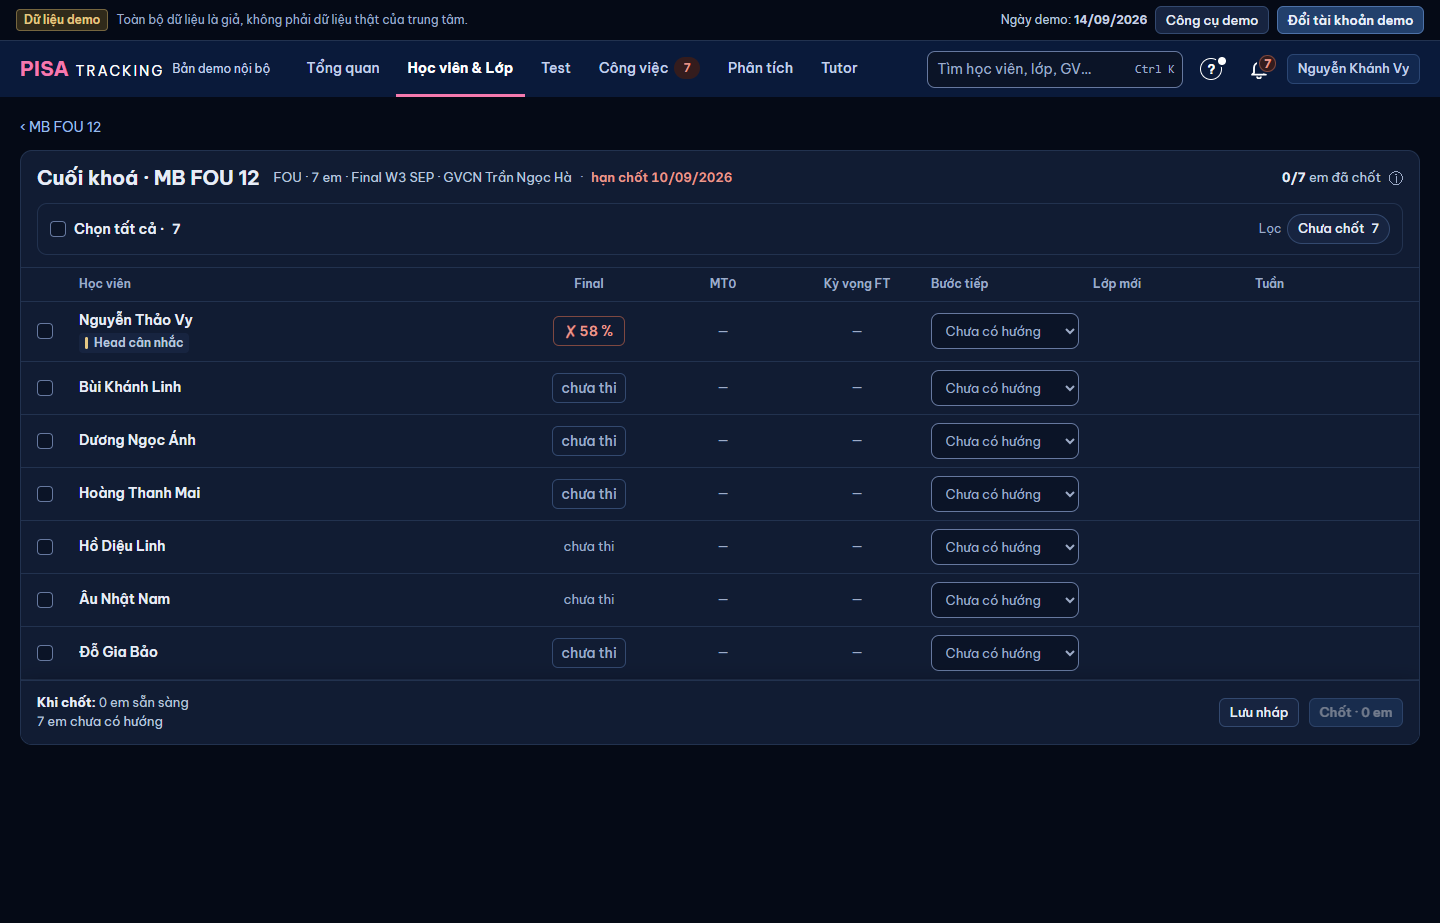
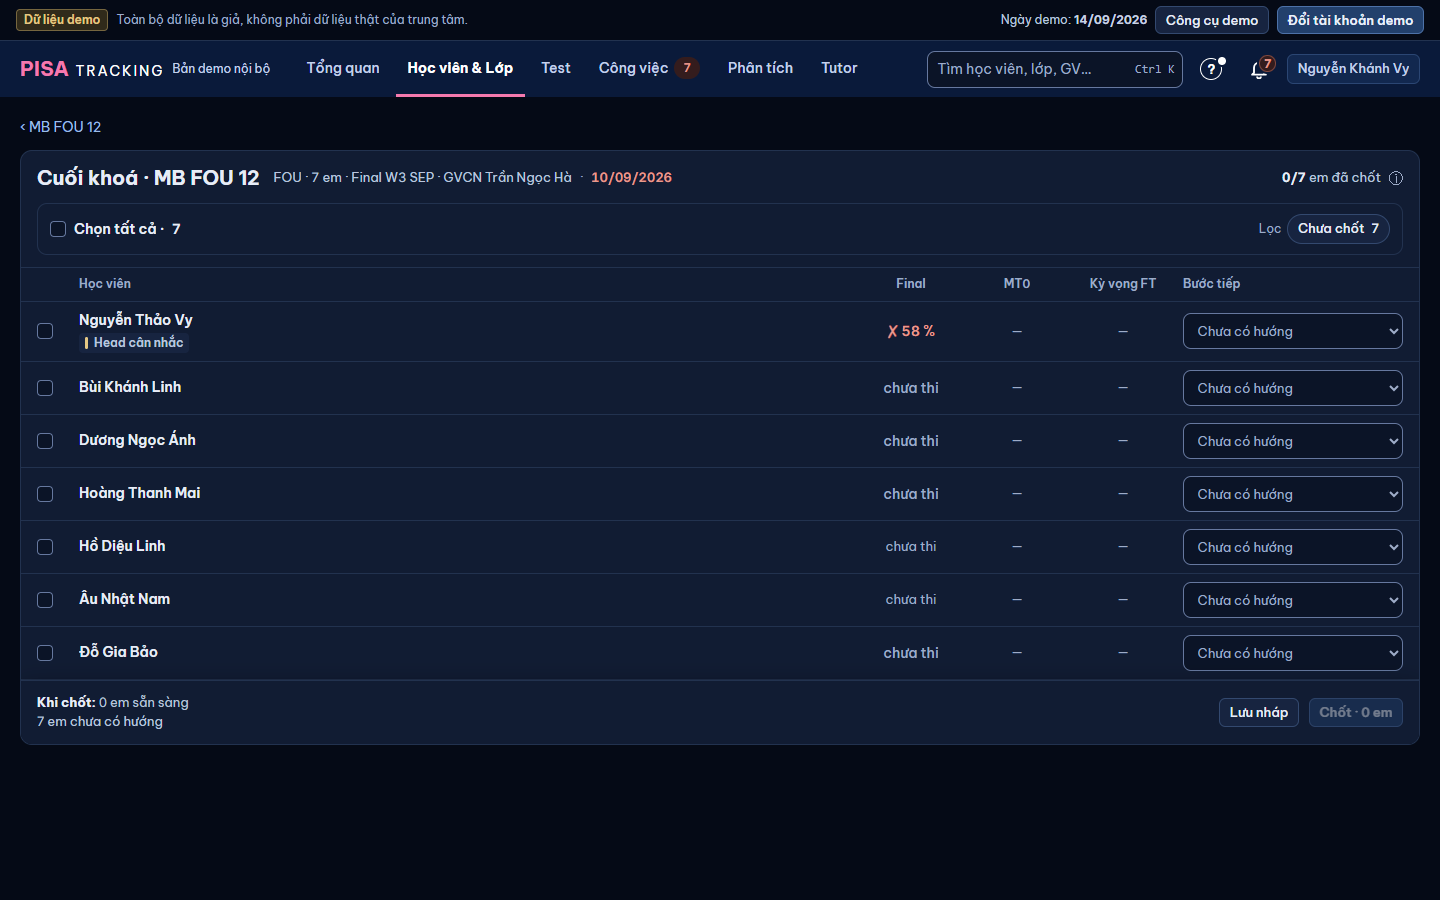
Cuối khoá: ẩn Lớp mới + Tuần khi chưa cần, nút điểm không khung, cột kết quả 92

diff --git a/web/src/modules/classes/CuoiKhoaLop.tsx b/web/src/modules/classes/CuoiKhoaLop.tsx
@@ -401,8 +401,8 @@ export function CuoiKhoaLop({ classId, emMo, onDaMoEm, theoVai }: { classId: num
   /** `gon` (thẻ < 1280, khung K3): chữ màu không viền, vùng bấm vẫn ≥ 44 px ở 375. */
   const nutDiem = (e: Em, chu: ReactNode, dat: boolean | null, nhan: string, gon = false) => (
     <button type="button" aria-label={nhan} aria-expanded={hopDiem === e.id} aria-haspopup="dialog"
-      className={`inline-flex items-center justify-center gap-1 rounded-md bg-transparent text-sm font-semibold tabular-nums hover:bg-[color:var(--accent-soft)] ${gon ? `border-0 px-0.5 ${HIT}` : 'h-[30px] min-w-[72px] border px-2'}`}
-      style={dat === true ? VIEN_DAT : dat === false ? VIEN_TRUOT : { borderColor: 'var(--line-strong)' }}
+      className={`inline-flex items-center justify-center gap-1 rounded-md bg-transparent text-sm font-semibold tabular-nums hover:bg-[color:var(--accent-soft)] border-0 hover:underline ${dat === null ? '[&>span]:hover:text-[color:var(--accent)]' : ''} ${gon ? `px-0.5 ${HIT}` : 'h-[30px] min-w-[72px] px-2'}`}
+      style={dat === true ? { color: VIEN_DAT.color } : dat === false ? { color: VIEN_TRUOT.color } : undefined}
       onClick={(ev) => { neoDiem.current = ev.currentTarget; setHopDiem(hopDiem === e.id ? null : e.id); }}>{chu}</button>
   );
   /** Ô Final: nút "✓ 78 %" xanh / "✗ 46 %" đỏ (có dấu, không chỉ màu); chưa thi → chữ mờ, có Progress / đang chấm thì vẫn bấm xem được. */
@@ -770,8 +770,9 @@ export function CuoiKhoaLop({ classId, emMo, onDaMoEm, theoVai }: { classId: num
 
   /* Cột cố định (khung v23 K1): QL tick 28 · Học viên ≥ 260 · Final 100 · MT0 100 · Kỳ vọng FT 124 · Bước tiếp 168 · Lớp mới 140 · Tuần 116;
      GVCN / người xem: … · Hướng · Head chốt · Nhận xét. Bàn giao (khung không vẽ — GIỮ) thành chip dưới tên. < 1280: thẻ hai dòng, "Sửa" mở ô tại thẻ. */
-  const LUOI = laQl ? 'xl:grid-cols-[28px_minmax(260px,1fr)_120px_120px_120px_148px_148px_148px]'
-    : 'xl:grid-cols-[28px_minmax(240px,1fr)_120px_120px_120px_220px_minmax(220px,1fr)]';
+  const coCotLop = laQl && dongs.some(({ x }) => { const hl = huongLenh(x); return !!hl && canLopDich(hl); });
+  const LUOI = laQl ? (coCotLop ? 'xl:grid-cols-[28px_minmax(260px,1fr)_92px_92px_92px_148px_148px_148px]' : 'xl:grid-cols-[28px_minmax(260px,1fr)_92px_92px_92px_minmax(148px,220px)]')
+    : 'xl:grid-cols-[28px_minmax(240px,1fr)_92px_92px_92px_220px_minmax(220px,1fr)]';
   const chip = (nhan: ReactNode, bat: boolean, onClick: () => void, key?: string) => (
     <button key={key} type="button" aria-pressed={bat} onClick={onClick}
       className={`btn btn-sm min-h-[44px] rounded-full sm:min-h-0 ${bat ? 'border-[color:var(--accent)] bg-[color:var(--accent-soft)] text-[color:var(--accent)]' : ''}`}>{nhan}</button>
@@ -829,8 +830,8 @@ export function CuoiKhoaLop({ classId, emMo, onDaMoEm, theoVai }: { classId: num
           {laQl ? (
             <>
               <span className={`min-w-0 max-xl:[grid-column:2/-1] ${oSua}`}>{oHuong(e, x)}</span>
-              <span className={`min-w-0 max-xl:[grid-column:2/-1] ${oSua}`}>{oLop(e, x)}</span>
-              <span className={`min-w-0 max-xl:[grid-column:2/-1] ${oSua}`}>{oTuanDong(e, x)}</span>
+              {coCotLop && <span className={`min-w-0 max-xl:[grid-column:2/-1] ${oSua}`}>{oLop(e, x)}</span>}
+              {coCotLop && <span className={`min-w-0 max-xl:[grid-column:2/-1] ${oSua}`}>{oTuanDong(e, x)}</span>}
             </>
           ) : (
             <>
@@ -953,7 +954,7 @@ export function CuoiKhoaLop({ classId, emMo, onDaMoEm, theoVai }: { classId: num
                 {/* Tiêu đề cột (chữ, không điều khiển — G9); < 1280 không có. */}
                 <div aria-hidden className={`hidden gap-x-3.5 border-b px-4 py-2 text-xs font-semibold text-slate-500 xl:grid ${LUOI}`} style={{ borderColor: 'var(--line)' }}>
                   <span /><span>{t('Học viên')}</span><span className="text-center">Final</span><span className="text-center">MT0</span><span className="text-center">{t('Kỳ vọng FT')}</span>
-                  {laQl ? <><span>{t('Bước tiếp')}</span><span>{t('Lớp mới')}</span><span>{t('Tuần')}</span></> : <><span>{t('Hướng · Head chốt')}</span><span>{t('Nhận xét')}</span></>}
+                  {laQl ? <><span>{t('Bước tiếp')}</span>{coCotLop && <><span>{t('Lớp mới')}</span><span>{t('Tuần')}</span></>}</> : <><span>{t('Hướng · Head chốt')}</span><span>{t('Nhận xét')}</span></>}
                 </div>
                 {dsDai.map((n) => <div key={n.k} role="group" aria-label={TEN_NHOM[n.k]}>{daiNhom(n.k, n.rows)}{n.rows.map((r) => dongEm(r, false))}</div>)}
                 {dsLe.map((r, i) => dongEm(r, i === 0 && dsDai.length > 0))}
